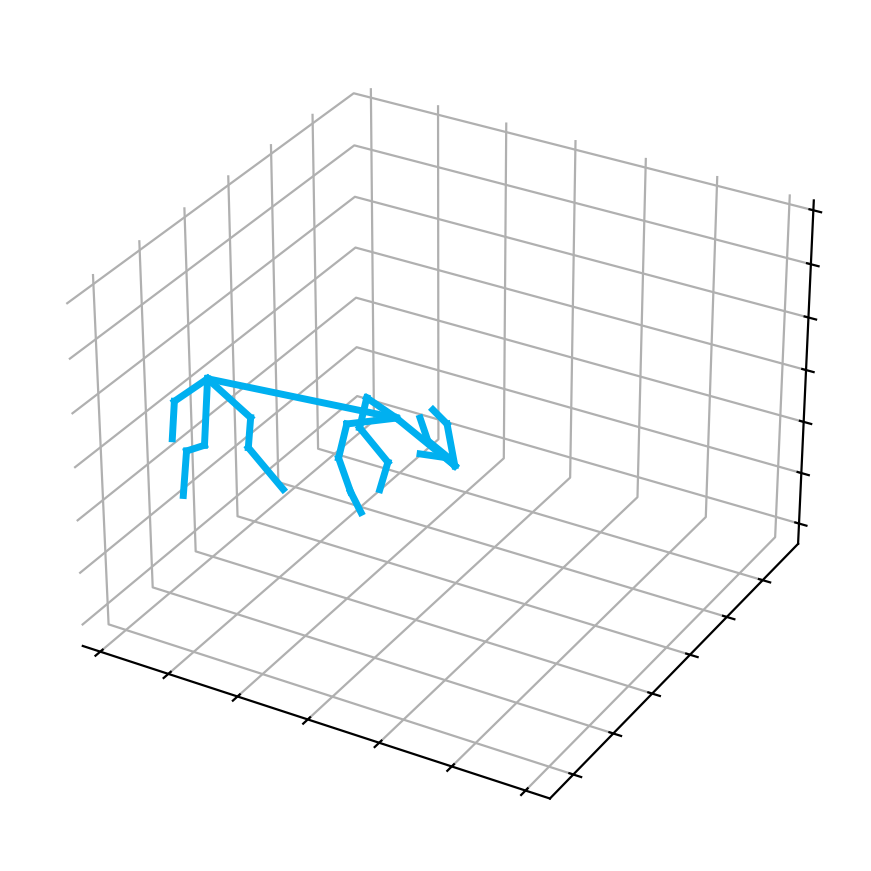
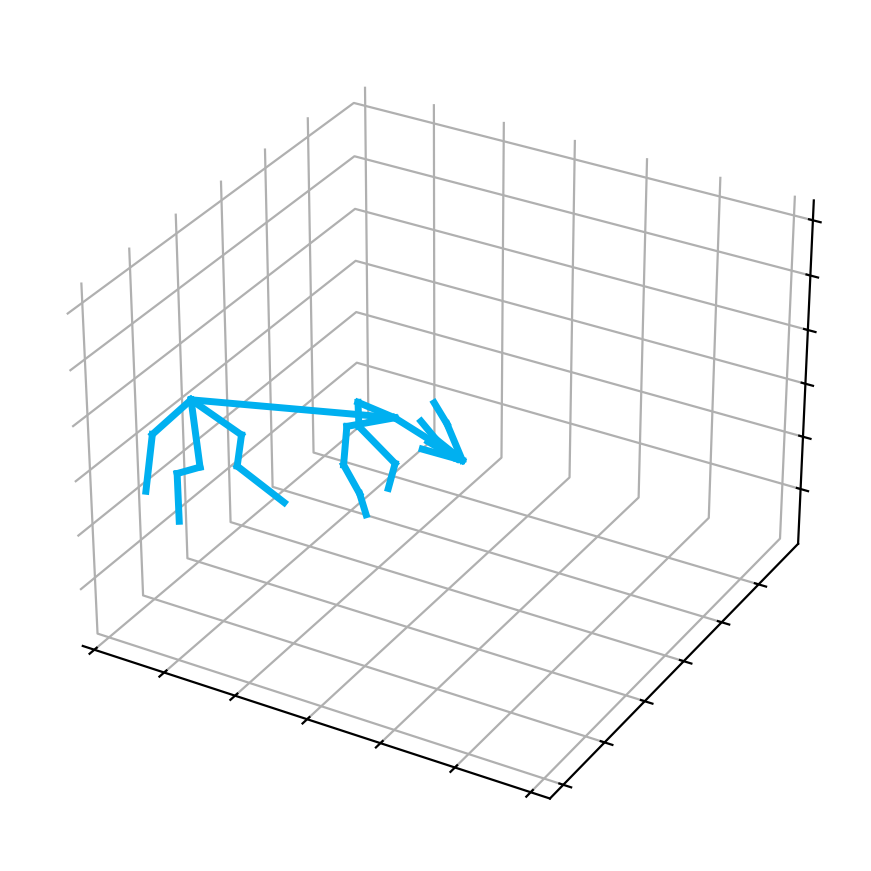
add load and view npz in html

Changed region(s): [[0.062, 0.093, 0.93, 0.93]]

diff --git a/demo/animals/load_npz_and_visualize.py b/demo/animals/load_npz_and_visualize.py
@@ -1,0 +1,317 @@
+#!/usr/bin/env python3
+"""
+简单示例：加载 .npz 文件中的 3D 姿态并生成交互式 HTML 可视化
+
+使用方法:
+    python load_npz_and_visualize.py --npz_file your_pose.npz --output pose_viewer.html
+"""
+
+import numpy as np
+import argparse
+import plotly.graph_objects as go
+import plotly.offline as pyo
+import os
+
+
+def load_pose_from_npz(npz_file, key=None):
+    """
+    从 .npz 文件加载 3D 姿态数据
+    
+    Args:
+        npz_file: .npz 文件路径
+        key: npz 文件中的键名。如果为 None，会列出所有可用的键
+    
+    Returns:
+        pose_3d: numpy array of shape (num_keypoints, 3) or (num_frames, num_keypoints, 3)
+    """
+    print(f"📂 Loading {npz_file}...")
+    data = np.load(npz_file, allow_pickle=True)
+    
+    # 列出所有可用的键
+    print(f"✓ Available keys in NPZ file: {list(data.keys())}")
+    
+    if key is None:
+        # 尝试常见的键名
+        possible_keys = ['reconstruction', 'pose_3d', 'keypoints', 'positions_3d', 'data']
+        for k in possible_keys:
+            if k in data.keys():
+                key = k
+                print(f"📌 Auto-selected key: '{key}'")
+                break
+        
+        if key is None:
+            # 使用第一个键
+            key = list(data.keys())[0]
+            print(f"📌 Using first available key: '{key}'")
+    
+    pose_data = data[key]
+    print(f"✓ Loaded data shape: {pose_data.shape}")
+    
+    return pose_data, key
+
+
+def create_interactive_3d_pose(pose_3d, keypoint_names=None, title="3D Pose Viewer", 
+                               show_skeleton=True, point_size=8):
+    """
+    创建交互式 3D 姿态可视化
+    
+    Args:
+        pose_3d: numpy array (num_keypoints, 3) with [x, y, z] coordinates
+        keypoint_names: list of keypoint names (optional)
+        title: title for the plot
+        show_skeleton: whether to show skeleton connections
+        point_size: size of the keypoints
+    
+    Returns:
+        plotly figure object
+    """
+    # 确保是 2D 数组 (num_keypoints, 3)
+    if pose_3d.ndim == 3:
+        print(f"⚠  Input has {pose_3d.shape[0]} frames. Visualizing first frame only.")
+        pose_3d = pose_3d[0]
+    
+    # 创建关键点名称（如果未提供）
+    if keypoint_names is None:
+        keypoint_names = [f'Joint_{i}' for i in range(len(pose_3d))]
+    
+    # 创建 Plotly figure
+    fig = go.Figure()
+    
+    # 创建悬停文本
+    hover_text = []
+    for i, (name, (x, y, z)) in enumerate(zip(keypoint_names, pose_3d)):
+        hover_text.append(
+            f"<b>{name}</b><br>" +
+            f"X: {x:.3f}<br>" +
+            f"Y: {y:.3f}<br>" +
+            f"Z: {z:.3f}<br>" +
+            f"Index: {i}"
+        )
+    
+    # 添加关键点
+    fig.add_trace(go.Scatter3d(
+        x=pose_3d[:, 0],
+        y=pose_3d[:, 1], 
+        z=pose_3d[:, 2],
+        mode='markers+text',
+        marker=dict(
+            size=point_size,
+            color='red',
+            opacity=0.8,
+        ),
+        text=[f"{i}" for i in range(len(pose_3d))],  # 显示索引号
+        textposition="top center",
+        textfont=dict(size=8, color='black'),
+        hovertext=hover_text,
+        hoverinfo='text',
+        name='Keypoints'
+    ))
+    
+    # 添加骨架连接
+    if show_skeleton:
+        # 使用自定义骨架连接 (26个关键点)
+        I = np.array([24, 24, 1, 0, 24, 2, 2, 24, 18, 18, 12, 13, 8, 9, 14, 15, 18, 7, 7, 10, 11, 16, 17, 7, 25])
+        J = np.array([0, 1, 21, 20, 2, 22, 23, 18, 12, 13, 8, 9, 14, 15, 3, 4, 7, 10, 11, 16, 17, 5, 6, 25, 19])
+        
+        # 创建骨架连接列表
+        connections = list(zip(I, J))
+        
+        # 绘制骨架
+        for joint1, joint2 in connections:
+            if joint1 < len(pose_3d) and joint2 < len(pose_3d):
+                fig.add_trace(go.Scatter3d(
+                    x=[pose_3d[joint1, 0], pose_3d[joint2, 0]],
+                    y=[pose_3d[joint1, 1], pose_3d[joint2, 1]],
+                    z=[pose_3d[joint1, 2], pose_3d[joint2, 2]],
+                    mode='lines',
+                    line=dict(color='blue', width=4),
+                    opacity=0.6,
+                    hoverinfo='none',
+                    showlegend=False
+                ))
+    
+    # 计算数据范围以设置合适的坐标轴
+    x_range = [pose_3d[:, 0].min(), pose_3d[:, 0].max()]
+    y_range = [pose_3d[:, 1].min(), pose_3d[:, 1].max()]
+    z_range = [pose_3d[:, 2].min(), pose_3d[:, 2].max()]
+    
+    # 添加一些边距
+    x_margin = (x_range[1] - x_range[0]) * 0.1 or 0.1
+    y_margin = (y_range[1] - y_range[0]) * 0.1 or 0.1
+    z_margin = (z_range[1] - z_range[0]) * 0.1 or 0.1
+    
+    print(f"📊 Data range: X:[{x_range[0]:.3f}, {x_range[1]:.3f}], "
+          f"Y:[{y_range[0]:.3f}, {y_range[1]:.3f}], "
+          f"Z:[{z_range[0]:.3f}, {z_range[1]:.3f}]")
+    
+    # 更新布局
+    fig.update_layout(
+        title=dict(
+            text=title,
+            font=dict(size=16, color='black')
+        ),
+        scene=dict(
+            xaxis_title="X",
+            yaxis_title="Y", 
+            zaxis_title="Z",
+            xaxis=dict(
+                showgrid=True, 
+                zeroline=True,
+                range=[x_range[0] - x_margin, x_range[1] + x_margin]
+            ),
+            yaxis=dict(
+                showgrid=True, 
+                zeroline=True,
+                range=[y_range[0] - y_margin, y_range[1] + y_margin]
+            ),
+            zaxis=dict(
+                showgrid=True, 
+                zeroline=True,
+                range=[z_range[0] - z_margin, z_range[1] + z_margin]
+            ),
+            bgcolor='white',
+            camera=dict(
+                eye=dict(x=1.5, y=1.5, z=1.5)  # 设置视角
+            ),
+            aspectmode='cube'  # 使用立方体模式以保持清晰显示
+        ),
+        width=1000,
+        height=800,
+        margin=dict(l=0, r=0, b=0, t=40),
+        paper_bgcolor='white',
+        plot_bgcolor='white'
+    )
+    
+    return fig
+
+
+def visualize_multiple_frames(poses_3d, keypoint_names=None, frame_indices=None, 
+                              output_html='multi_frame_poses.html'):
+    """
+    可视化多帧 3D 姿态
+    
+    Args:
+        poses_3d: numpy array (num_frames, num_keypoints, 3)
+        keypoint_names: list of keypoint names
+        frame_indices: which frames to visualize (e.g., [0, 10, 20])
+        output_html: output HTML file
+    """
+    if frame_indices is None:
+        # 自动选择几帧
+        num_frames = min(6, len(poses_3d))
+        frame_indices = np.linspace(0, len(poses_3d)-1, num_frames, dtype=int)
+    
+    print(f"🎬 Visualizing {len(frame_indices)} frames: {frame_indices}")
+    
+    from plotly.subplots import make_subplots
+    
+    # 创建子图
+    cols = min(3, len(frame_indices))
+    rows = (len(frame_indices) + cols - 1) // cols
+    
+    fig = make_subplots(
+        rows=rows, cols=cols,
+        specs=[[{'type': 'scatter3d'} for _ in range(cols)] for _ in range(rows)],
+        subplot_titles=[f"Frame {i}" for i in frame_indices],
+    )
+    
+    for idx, frame_idx in enumerate(frame_indices):
+        row = idx // cols + 1
+        col = idx % cols + 1
+        
+        pose_3d = poses_3d[frame_idx]
+        
+        # 添加关键点
+        fig.add_trace(
+            go.Scatter3d(
+                x=pose_3d[:, 0],
+                y=pose_3d[:, 1],
+                z=pose_3d[:, 2],
+                mode='markers',
+                marker=dict(size=5, color='red', opacity=0.8),
+                name=f'Frame {frame_idx}',
+                showlegend=False
+            ),
+            row=row, col=col
+        )
+    
+    fig.update_layout(
+        height=400 * rows,
+        width=1200,
+        title_text="Multi-Frame 3D Pose Viewer",
+    )
+    
+    # 保存
+    pyo.plot(fig, filename=output_html, auto_open=False)
+    print(f"✓ Multi-frame visualization saved to: {output_html}")
+
+
+def main():
+    parser = argparse.ArgumentParser(description='Load 3D pose from NPZ and create interactive HTML viewer')
+    
+    parser.add_argument('--npz_file', type=str, default='/home/xiaohang/FMpose_review/Ti_workspace/projects/FMPose_clean/demo/animals/predictions/000000119761_horse/pose3D/0000_3D.npz',
+                       help='Path to .npz file containing 3D pose data')
+    parser.add_argument('--key', type=str, default=None,
+                       help='Key name in NPZ file (auto-detect if not specified)')
+    parser.add_argument('--output', type=str, default='pose_3d_viewer.html',
+                       help='Output HTML file path')
+    parser.add_argument('--no_skeleton', action='store_true',
+                       help='Disable skeleton connections')
+    parser.add_argument('--point_size', type=int, default=8,
+                       help='Size of keypoint markers')
+    parser.add_argument('--multi_frame', action='store_true',
+                       help='Visualize multiple frames if data is sequential')
+    parser.add_argument('--frame_indices', type=int, nargs='+',
+                       help='Specific frame indices to visualize (e.g., 0 10 20)')
+    
+    args = parser.parse_args()
+    
+    # 检查文件是否存在
+    if not os.path.exists(args.npz_file):
+        print(f"❌ Error: File not found: {args.npz_file}")
+        return
+    
+    # 加载 NPZ 文件
+    pose_data, key = load_pose_from_npz(args.npz_file, args.key)
+    
+    # 根据数据维度决定可视化方式
+    if pose_data.ndim == 3 and args.multi_frame:
+        # 多帧可视化
+        visualize_multiple_frames(
+            pose_data, 
+            frame_indices=args.frame_indices,
+            output_html=args.output
+        )
+    else:
+        # 单帧可视化
+        if pose_data.ndim == 3:
+            print(f"ℹ  Using first frame from {pose_data.shape[0]} frames")
+            pose_data = pose_data[0]
+        
+        # 创建可视化
+        fig = create_interactive_3d_pose(
+            pose_data,
+            title=f"3D Pose from {os.path.basename(args.npz_file)}",
+            show_skeleton=not args.no_skeleton,
+            point_size=args.point_size
+        )
+        
+        # 保存为 HTML
+        pyo.plot(fig, filename=args.output, auto_open=False)
+        print(f"\n✓ Interactive visualization saved to: {args.output}")
+    
+    # 显示使用说明
+    print(f"\n🌐 To view the interactive HTML:")
+    print(f"  1. Open directly: {os.path.abspath(args.output)}")
+    print(f"  2. Or start HTTP server: python -m http.server 8080")
+    print(f"  3. Then open: http://localhost:8080/{args.output}")
+    
+    print("\n🎮 Interactive features:")
+    print("  • Drag to rotate the 3D view")
+    print("  • Scroll to zoom in/out")
+    print("  • Hover over points to see coordinates")
+    print("  • Use toolbar for additional controls")
+
+
+if __name__ == "__main__":
+    main()
